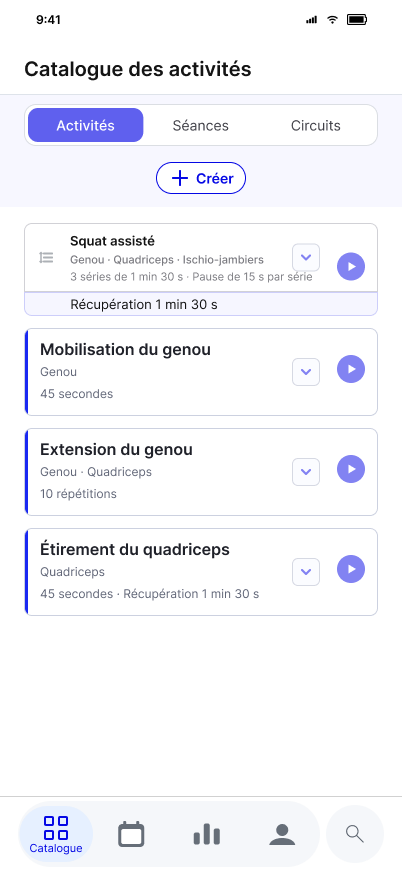
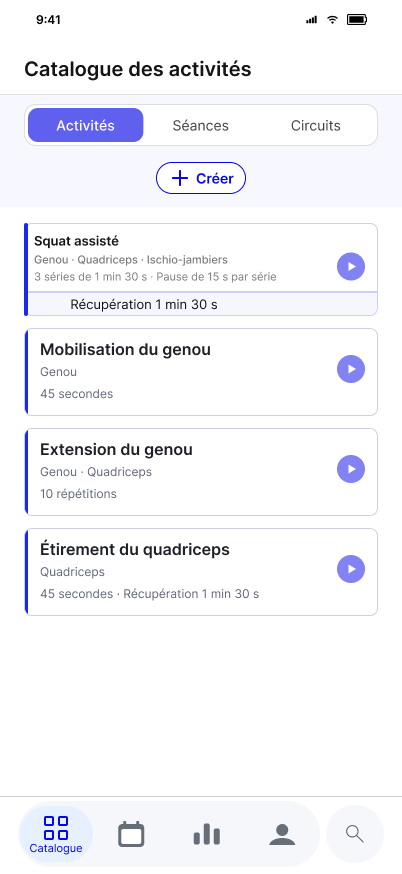
docs: réaligner le Catalogue des Activités

diff --git a/docs/Specifications-fonctionnelles/03 – Parcours utilisateur.md b/docs/Specifications-fonctionnelles/03 – Parcours utilisateur.md
@@ -404,7 +404,9 @@ En cas d’arrêt confirmé, le Circuit, la Séance courante et les résultats d
 5. `Annuler` ne modifie rien. `Confirmer` applique atomiquement la direction au Tour, remet les seules Activités concernées à `UNILATERAL` et désactive les contrôles enfants.
 6. À l’Exécution, le sous-titre `Côté droit` ou `Côté gauche` apparaît sous le nom de l’Activité. `Activité X/Y` conserve son rang logique ; aucun `1/2` ou `2/2` n’est ajouté.
 7. Une Activité autonome termine toutes ses Séries du premier côté puis toutes celles du second. Un Tour termine tout son contenu du premier côté puis tout son contenu du second, pour chaque répétition.
-8. La modale générique de passage à l’Activité suivante reste inchangée. Confirmée pendant le premier côté, elle enregistre ce côté comme partiel et ouvre le second côté ; confirmée pendant le second, elle poursuit le Plan d’Exécution.\n\n## Exécuter directement une Activité — V2
+8. La modale générique de passage à l’Activité suivante reste inchangée. Confirmée pendant le premier côté, elle enregistre ce côté comme partiel et ouvre le second côté ; confirmée pendant le second, elle poursuit le Plan d’Exécution.
+
+## Exécuter directement une Activité — V2
 
 1. Ouvrir `Activités` dans le Catalogue.
 2. Appuyer sur l’action `Exécuter` d’une Activité valide.
@@ -413,4 +415,12 @@ En cas d’arrêt confirmé, le Circuit, la Séance courante et les résultats d
 5. Après la dernière phase, entendre le signal de fin et ouvrir immédiatement la Synthèse.
 6. Sélectionner obligatoirement un Ressenti ; le Commentaire reste facultatif.
 7. Appuyer sur `Terminer` pour enregistrer l’Exécution dans le Suivi général avec l’origine `ACTIVITY`.
-8. Revenir au Catalogue des Activités avec recherche, filtres et position de défilement restaurés.\n
+8. Revenir au Catalogue des Activités avec recherche, filtres et position de défilement restaurés.
+## Consulter ou modifier une Activité depuis le Catalogue — V2
+
+1. Ouvrir `Activités` dans le Catalogue.
+2. Appuyer sur la surface de la carte, hors bouton Lecture.
+3. Consulter ou modifier l’Activité.
+4. Revenir au Catalogue dans son état précédent.
+
+Le bouton Lecture reste réservé à l’Exécution directe. Aucun contrôle `Déployer` n’est affiché dans cette version. Un futur contrôle de déploiement des médias pourra être introduit en V2 sans modifier l’action principale de la carte.

diff --git a/docs/Specifications-fonctionnelles/13 – Contrats d’écran.md b/docs/Specifications-fonctionnelles/13 – Contrats d’écran.md
@@ -1222,7 +1222,7 @@ La modale générique `Passer à l’activité suivante ?` est inchangée. Aprè
 
 | ID | Référence Figma | Contrat | Criticité |
 |---|---|---|---|
-| CE-ACT-EXE-01 | Catalogue Activités `3786:5093`, `3787:5148`, `3787:5209` | Chaque carte valide présente une action `Exécuter` distincte du chevron d’ouverture. | Obligatoire |
+| CE-ACT-EXE-01 | Catalogue Activités `3786:5093`, `3787:5148`, `3787:5209` | Chaque carte valide présente un bouton Lecture d’Exécution directe distinct de la surface principale, qui ouvre la consultation ou la modification. Aucun contrôle `Déployer` n’est affiché. | Obligatoire |
 | CE-ACT-EXE-02 | `3835:5385` | Préparation fixe de `5 s`, nom de l’Activité, aucun compteur de Tour ou Cycle. | Obligatoire |
 | CE-ACT-EXE-03 | `3835:5465` | Exécution commune adaptée à une Activité seule ; Série et prochaine phase visibles ; aucun Tour artificiel. | Obligatoire |
 | CE-ACT-EXE-04 | `3836:5437` | Synthèse initiale ; `Terminer` désactivé tant qu’aucun Ressenti n’est choisi. | Obligatoire |
@@ -1264,4 +1264,14 @@ Ces captures matérialisent les états Figma associés aux contrats `CE-ACT-EXE-
 ### CE-ACT-EXE-05 — Synthèse avec Ressenti sélectionné
 
 ![Synthèse d’une Activité directe — Ressenti sélectionné](./images/CE-ACT-EXE-05-synthese-ressenti-selectionne.png)
+### Révision du Catalogue des Activités — D-164
 
+Pour les frames `3786:5093`, `3787:5148` et `3787:5209` :
+
+- la surface de carte ouvre l’Activité en consultation ou modification ;
+- le bouton Lecture déclenche uniquement l’Exécution directe ;
+- aucun contrôle `Déployer` ni icône de déplacement n’est visible ;
+- chaque carte porte une barre verticale bleue ;
+- les informations de la première carte commencent au même axe horizontal que celles des autres cartes.
+
+Le frame `3841:8375` affiche l’arbre d’actions de création au-dessus du Catalogue des Séances grisé. La réintroduction d’un contrôle destiné à afficher les médias est hors de ce contrat courant et reste une évolution V2 à détailler.

diff --git a/docs/Specifications-fonctionnelles/05 – Versions du produit.md b/docs/Specifications-fonctionnelles/05 – Versions du produit.md
@@ -213,3 +213,6 @@ Une tranche spécifique précède l’Exécution T03. Elle livre la configuratio
 T03 est ensuite révisée pour développer le Plan d’Exécution par Séries, Tours et côtés, afficher le sous-titre du côté courant, pondérer la progression globale, émettre les annonces vocales de côté, réinitialiser uniquement le passage courant et persister des résultats séparés par côté. Les anciennes exclusions d’une Série unique ou d’un Tour unique sont supprimées des contrats T03.\n\n## Complément V2 — Activité directement exécutable
 
 La première version fonctionnelle du Catalogue des Activités inclut l’exécution directe d’une référence persistante : action sur la carte, préparation fixe de `5 s`, moteur commun, Synthèse, Suivi général typé et statistiques compatibles. Cette capacité appartient à la V2 et ne modifie pas le périmètre du MVP centré sur les Séances.\n
+### Précision V2 — Carte d’Activité et médias
+
+Dans le Catalogue des Activités, l’appui sur la carte ouvre la consultation ou la modification et le bouton Lecture lance l’Exécution directe. Le contrôle `Déployer` est absent de l’état courant. Sa réintroduction éventuelle pour afficher les médias est une évolution V2 distincte, à détailler avec les comportements média.

diff --git a/docs/Specifications-fonctionnelles/06 – Ecrans et navigation de la V1.md b/docs/Specifications-fonctionnelles/06 – Ecrans et navigation de la V1.md
@@ -1627,5 +1627,12 @@ La Synthèse porte le nom de l’Activité, le statut, la Durée réelle et les 
 #### Synthèse — Ressenti sélectionné
 
 ![Synthèse d’une Activité directe — Ressenti sélectionné](./images/CE-ACT-EXE-05-synthese-ressenti-selectionne.png)
+### Mise à jour — Cartes du Catalogue des Activités
 
+Dans les frames `3786:5093`, `3787:5148` et `3787:5209`, chaque carte d’Activité ne présente plus de contrôle `Déployer` ni d’icône de déplacement. Une barre verticale bleue est affichée sur chaque carte, y compris la première ; les informations de la première carte sont alignées à gauche avec celles des autres cartes.
 
+L’appui sur la carte, hors bouton Lecture, ouvre l’Activité en consultation ou modification. Le bouton Lecture déclenche exclusivement l’Exécution directe. Un éventuel contrôle de déploiement destiné à afficher les médias appartient à la V2 et n’est pas affiché dans ces frames.
+
+Le frame `3841:8375`, `Catalogue des Séances — Catalogue — Créer — Arbre d’actions`, reprend le Catalogue des Séances comme arrière-plan sous le voile modal commun.
+
+![Catalogue des Séances — Création — Arbre d’actions](./images/catalogue-seances-creer-arbre-actions.png)

diff --git a/docs/Specifications-fonctionnelles/07 – Registre des décisions de conception.md b/docs/Specifications-fonctionnelles/07 – Registre des décisions de conception.md
@@ -199,3 +199,4 @@ Les identifiants suivants ne correspondent à aucune décision active et ne doiv
 | D-161 | L’Exécution directe figure dans le Suivi général avec l’origine `ACTIVITY` et ne crée aucune entrée de Séance. | Validée | Non — V2 |
 | D-162 | Elle alimente toutes les statistiques compatibles avec l’Activité, sans augmenter le nombre de Séances. | Validée | Non — V2 |
 | D-163 | Après `Terminer`, le Catalogue des Activités est restauré avec sa recherche, ses filtres et sa position de défilement. | Validée | Non — V2 |\n
+| D-164 | Dans le Catalogue des Activités, l’appui sur la carte ouvre la consultation ou la modification ; le bouton Lecture lance exclusivement l’Exécution directe. Le contrôle `Déployer` et l’icône de déplacement sont absents des cartes du Catalogue. Une barre verticale bleue identifie toutes les cartes. La réintroduction éventuelle d’un contrôle de déploiement pour afficher les médias relève de la V2 et devra être détaillée séparément. Le frame `3841:8375` représente l’arbre d’actions sur fond Catalogue des Séances grisé. | Validée post-Figma | Oui |

diff --git a/docs/Specifications-fonctionnelles/08 – Conception fonctionnelle détaillée.md b/docs/Specifications-fonctionnelles/08 – Conception fonctionnelle détaillée.md
@@ -1189,3 +1189,8 @@ Le plan contient, dans l’ordre : `DIRECT_PREPARE(5 s)`, tous les passages de l
 ### Synthèse et retour
 
 La Synthèse affiche les données compatibles d’une Activité seule. Le Ressenti est obligatoire et conditionne `Terminer`; le Commentaire est facultatif. La finalisation enregistre l’origine `ACTIVITY`, puis restaure le Catalogue et son état antérieur.\n
+### Interactions de la carte d’Activité de catalogue
+
+La carte distingue deux cibles : sa surface principale ouvre la consultation ou la modification de l’Activité ; le bouton Lecture lance son Exécution directe. Aucun chevron ou bouton `Déployer` n’est affiché dans l’état courant, et l’icône de déplacement propre à la Composition n’est jamais affichée dans le Catalogue. La barre verticale bleue appartient à la présentation de toutes les cartes d’Activité.
+
+En V2, un contrôle de déploiement pourra être réintroduit pour révéler les médias. Cette future action média restera distincte de l’ouverture de la carte et de l’Exécution directe.

diff --git a/docs/INDEX.md b/docs/INDEX.md
@@ -165,4 +165,6 @@ La mise à jour du 8 septembre 2026 supprime le type d’Activité `Récupérati
 ## Évolution V2 — Exécution directe d’une Activité
 
 Décision du 14 septembre 2026, établie depuis la baseline `9d4b39fb0881756af34795ab64fc9c91231a81f4`. Les chapitres 00 à 13 et `PRODUCT.md` propagent l’origine d’Exécution `ACTIVITY`, la préparation fixe de `5 s`, l’absence de `SESSION_END`, la Synthèse à Ressenti obligatoire, le Suivi général, les statistiques compatibles et le retour au Catalogue des Activités.
+## Mise à jour visuelle — Cartes du Catalogue des Activités
 
+Les cartes du Catalogue des Activités séparent désormais l’ouverture en consultation/modification, obtenue par appui sur la carte, et l’Exécution directe, déclenchée uniquement par le bouton Lecture. Le contrôle `Déployer` n’est pas affiché dans cet état. Sa réintroduction éventuelle pour afficher les médias relève de la V2. Les captures de référence ont été réalignées sur Figma.

diff --git a/docs/Specifications-fonctionnelles/10 – Processus métier et règles métier transverses.md b/docs/Specifications-fonctionnelles/10 – Processus métier et règles métier transverses.md
@@ -217,3 +217,4 @@ Ce chapitre rassemble les règles fonctionnelles qui s’appliquent à plusieurs
 | RM-101 | Le Ressenti reste obligatoire lorsque la Synthèse est présentée ; `Terminer` reste désactivé avant sa sélection. |
 | RM-102 | Le Suivi conserve l’origine `ACTIVITY` et les statistiques compatibles, sans incrémenter le nombre de Séances. |
 | RM-103 | La finalisation restaure l’état antérieur du Catalogue des Activités. |\n
+| RM-162 | Dans le Catalogue des Activités, un appui sur la carte hors bouton Lecture ouvre l’Activité en consultation ou modification ; le bouton Lecture lance uniquement l’Exécution directe. Aucun contrôle `Déployer` n’est disponible dans l’état courant. Une future action de déploiement des médias reste une capacité V2 distincte. |
